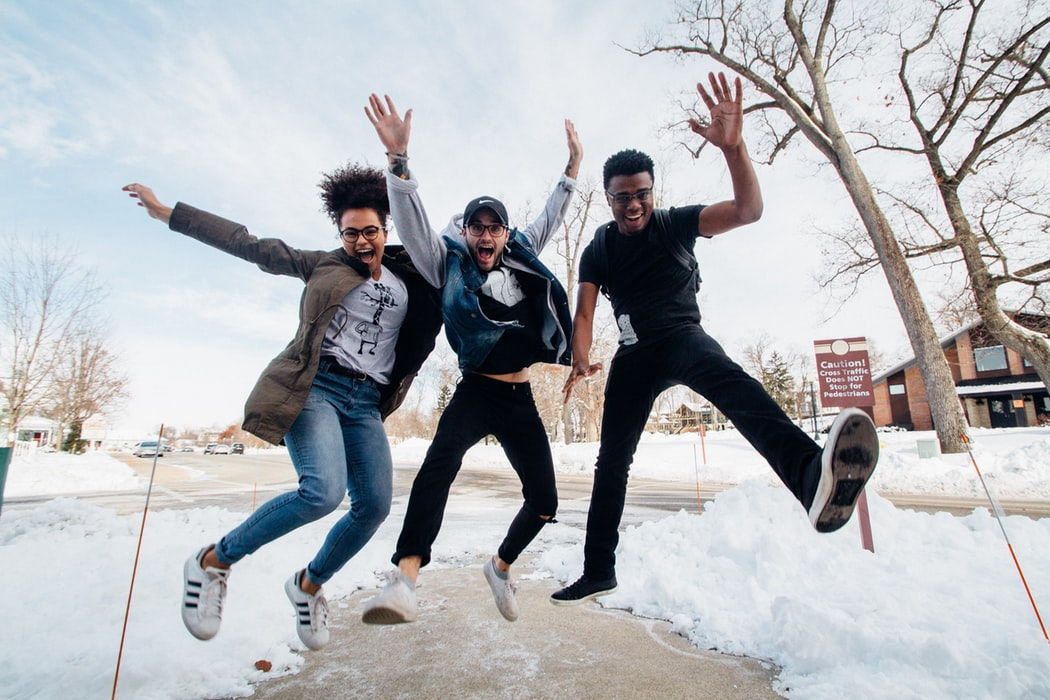
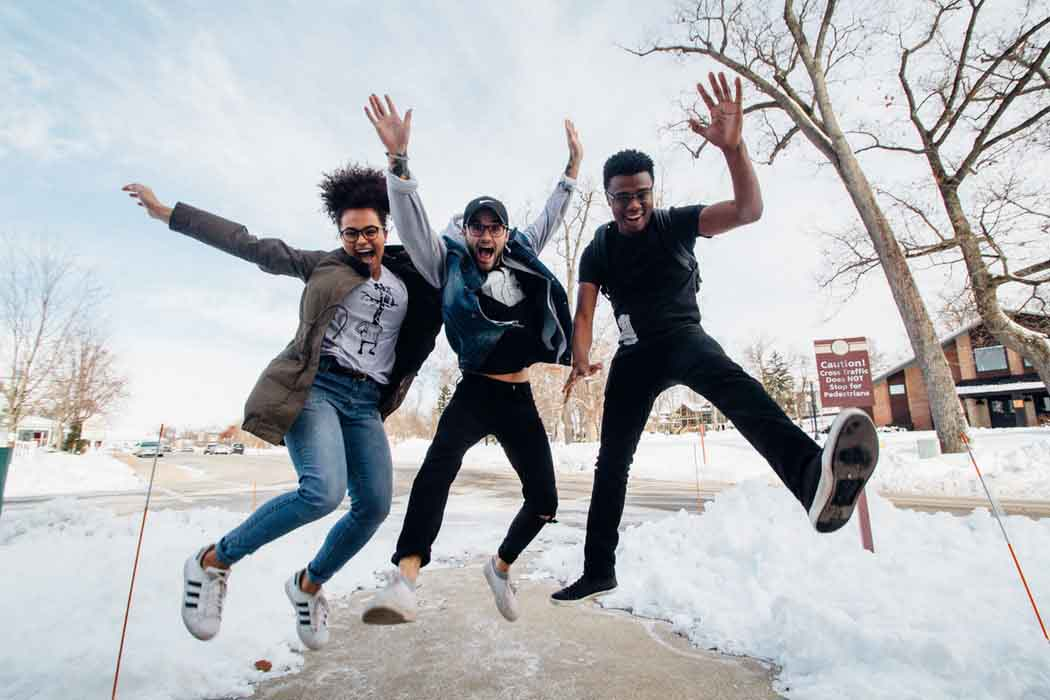
optimised assets

diff --git a/src/components/Download.js b/src/components/Download.js
@@ -1,7 +1,7 @@
 import React, {useState, useEffect} from 'react';
 import {useParams } from 'react-router-dom';
 import {Helmet, HelmetProvider} from 'react-helmet-async';
-import BackgroundImage from "../assets/images/bg.png";
+import BackgroundImage from "../assets/images/bg.jpg";
 // import { CircularProgressbar } from 'react-circular-progressbar';
 import 'react-circular-progressbar/dist/styles.css';
 import {Navbar} from './Navbar';

diff --git a/src/components/Fileseat.js b/src/components/Fileseat.js
@@ -1,7 +1,7 @@
 import React, { useState } from "react";
 import axios from "axios";
 import { Formik, Form, Field } from "formik";
-import BackgroundImage from "../assets/images/bg.png";
+import BackgroundImage from "../assets/images/bg.jpg";
 import { Navbar } from "./Navbar";
 import CloudUploadIcon from "@material-ui/icons/CloudUpload";
 import { useDropzone } from "react-dropzone";
